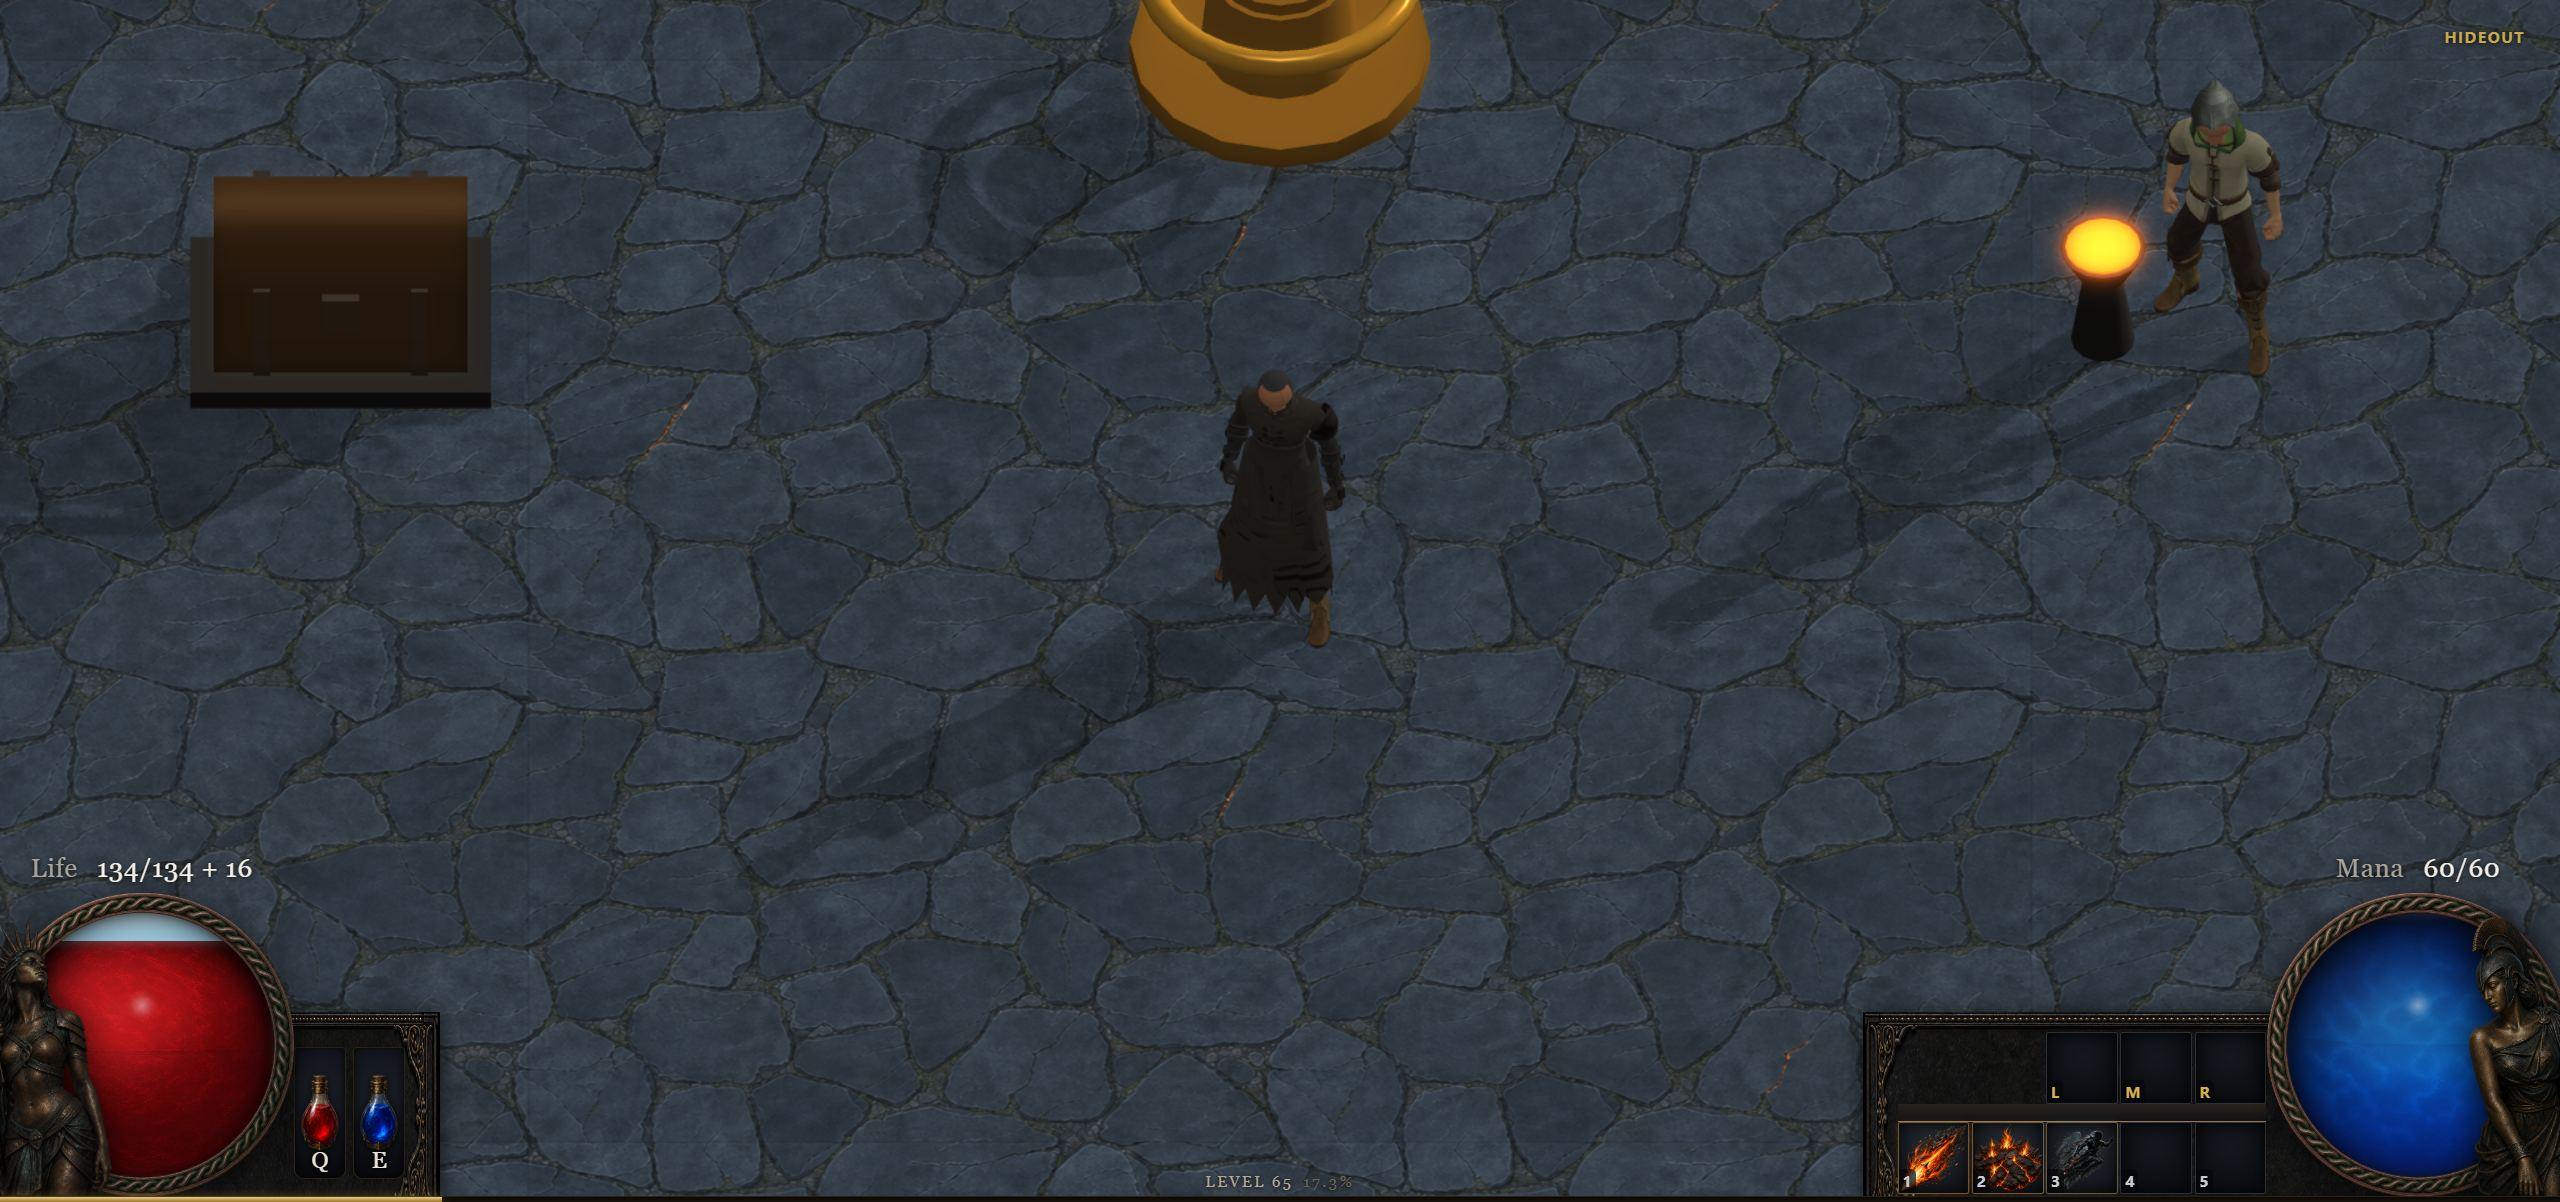
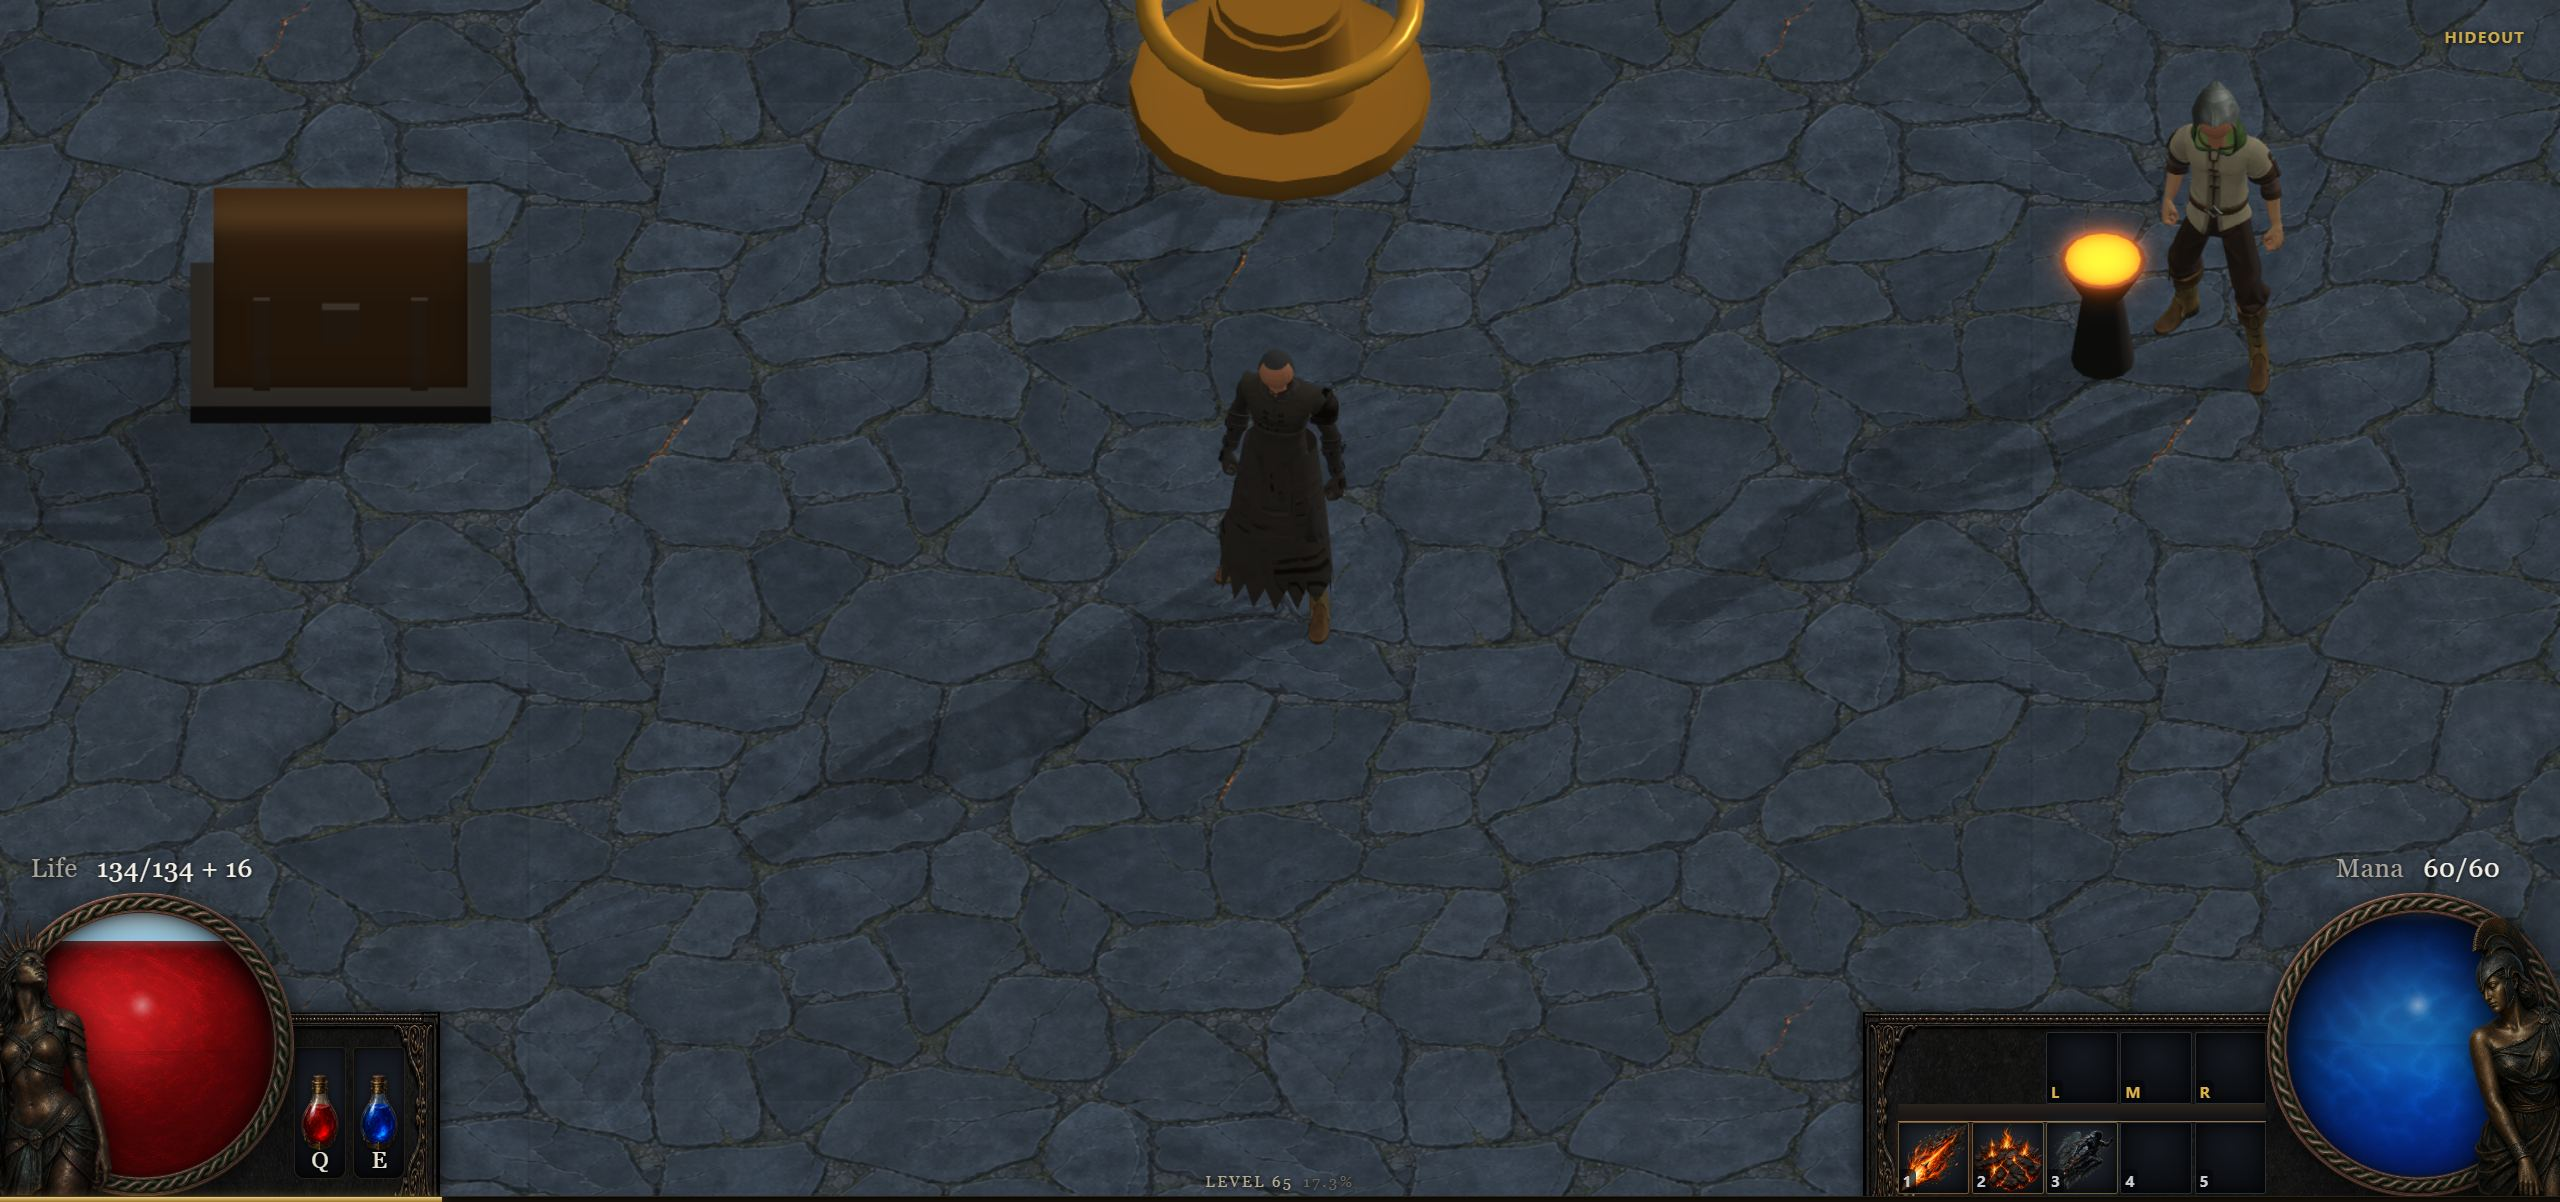
feat(camera): the zoom arc was an eighth of what it could be
BETA_PER_UNIT 0.03 to 0.08. The tilt is bounded by where it starts cancelling
the box: visible depth stops falling once it reaches 1/(half*tan(beta)), about
0.24 at the wide end. The first pass sat an eighth of the way there and the
arc barely read.

A full zoom in now tilts ~7 degrees and still cuts visible depth ~24%. The
test pins the ratio rather than the constant, so this stays free to tune by
eye.

diff --git a/apps/web/src/render/engine.ts b/apps/web/src/render/engine.ts
@@ -71,15 +71,21 @@ const MAX_HALF_HEIGHT = ORTHO_HALF_HEIGHT;
  *
  * The direction is a trap worth stating: shallower shows *more* ground
  * front-to-back at a fixed box height (the floor is stretched by 1/cos(beta)),
- * which is the "now I can see further up the map" that this must not do. It
- * does not, because the box shrinks about seven times faster than the stretch
- * grows — a full zoom in cuts the visible depth by ~30% even while tilting. The
- * ratio is the load-bearing part and `render.test.ts` pins it rather than the
- * two numbers, so retuning the pitch cannot quietly reintroduce it.
+ * which is the "now I can see further up the map" that this must not do. The
+ * box shrinking is what pays for it, and the two cancel at a computable place:
+ * the visible depth stops falling once `|BETA_PER_UNIT| >= 1 / (half·tan(beta))`,
+ * which at the wide end is about 0.24. That is the real ceiling on this number
+ * and it is roughly 3x the value set here — the first pass ran at 0.03, an
+ * eighth of it, and the arc was too timid to see. A full zoom in now tilts
+ * ~7 degrees and still cuts the visible depth ~24%.
+ *
+ * `render.test.ts` pins the *ratio* rather than either number, so this can be
+ * pushed further by eye without anyone having to remember the algebra above —
+ * the test fails the moment the tilt starts outrunning the box.
  */
 const BETA_AT_DEFAULT = 0.72;
-const BETA_PER_UNIT = -0.03;
-const BETA_LIMIT = { min: BETA_AT_DEFAULT, max: 0.8 };
+const BETA_PER_UNIT = -0.08;
+const BETA_LIMIT = { min: BETA_AT_DEFAULT, max: 0.88 };
 
 /** Seconds-ish smoothing on the zoom, so a notch glides instead of snapping. */
 const ZOOM_EASE = 0.18;

diff --git a/devlog/README.md b/devlog/README.md
@@ -219,6 +219,6 @@ The hideout gets storage, quick transfer, and a bench that turns leftovers into 
 <td width="33%"><img src="screenshots/2026-07-27-coat-damping.jpeg" alt="The character standing in the hideout, the coat hanging with its authored flare and a clean hem" width="100%"><br><sub><b>The coat stops ringing</b> - the fix above bought its swing honestly and shipped a new complaint with it: "flutters around too quick, like it's made of rubber". The harness could not see it, which is the actual lesson. It scored penetration depth and total hem travel, and a coat that shakes at 30Hz scores exactly like one that swings smoothly - both are "the hem is far from its bind pose a lot". Two metrics that <em>do</em> separate: mean per-frame hem movement, and hem direction <b>reversals</b> per chain-frame. The second is what rubber is. It read 0.006 on the shipped coat against 0.003 for the old stiff one - the ringing was there in the trace the whole time, twice over, unmeasured. Then the sweep said the obvious suspect was innocent. <code>CONTACT_ABSORB</code> had been halved to 0.25 in the same commit and is the knob that decides how much of a shove lands in the Verlet velocity, so it was the theory; swept from 0.3 to 0.6 it moves the reversal rate by nothing at all. The frequency knob is <code>DAMPING</code>, which had never been touched and was still tuned against a spring six times stiffer than the one it now damps. At 0.9 -> 0.75 the reversals halve back to 0.003, per-frame jitter falls 0.047 -> 0.033, and frames showing more than 2cm of leg <em>improve</em> 4.7% -> 2.0%, because a heavier hem that gets shoved aside stays aside. Not lower than 0.75, and this is the trap in the old metric stated plainly: mean offset from the bind pose keeps climbing all the way down (0.33 at 0.9, 0.38 at 0.75, 0.53 at 0.6) and past the knee that number is <b>lag, not swing</b> - the coat trailing the body rather than hanging on it. Read as "more is better" it would have argued for a cape dragging half a metre behind.</sub></td>
 </tr>
 <tr>
-<td width="33%"><img src="screenshots/2026-07-27-wheel-zoom.jpeg" alt="The hideout scrolled in close: the character large in frame, the map device cropped by the top edge, less floor visible all round" width="100%"><br><sub><b>The wheel zooms</b> - and the interesting part is that our camera is orthographic while PoE's is perspective, so the obvious implementation is wrong. In PoE, zooming in <em>dollies</em> the camera at the character; perspective is what makes that read as a curve, and it is also what stops you seeing further up the map, because the frustum's far footprint shrinks as you approach. Ortho has neither. <code>radius</code> is visually inert, zoom is only the ortho box, and scaling a box is a flat magnification with no arc in it at all - nothing changes shape with distance when there is no distance. So the arc has to come from the one thing that still bends an ortho view, the pitch, and the reference says which way: in <code>closeup-hideout-zoom.jpg</code> the huntress is a near-upright portrait, while the NPCs in the wider <code>hideout.jpg</code> are seen from further above. Close in is <b>shallower</b>. That is the trap, though, and it is worth stating in the direction that hurts: shallower shows <em>more</em> ground front-to-back at a fixed box height, since the floor is stretched by 1/cos(beta) - exactly the "now I can see further up the map" this was asked not to do. It gets away with it on a ratio. Over the full range the box shrinks about seven times faster than the stretch grows, so a full zoom in still cuts the visible depth ~30% while tilting. The ratio is the load-bearing fact rather than either number, so the test pins <em>that</em> - every notch inward must reduce <code>2·halfHeight/cos(beta)</code> - and re-tuning the pitch by eye can no longer quietly reintroduce the thing the feature was supposed to avoid. Two details that are only obvious once wrong: the shadow frustum is sized to the visible floor rather than to the world, so it has to track the zoom rather than sit at a fixed extent; and the wheel listener belongs on the canvas, not the window, or it eats the inventory's own scrolling. The range runs 3.2 to 4.75 half-height, and the ceiling is the point - <b>the wheel only zooms in</b>. The authored 4.75 is both where it rests and as far out as it goes, so the widest shot the player can ever see is the one that was actually composed: the ortho height is calibrated against a screenshot, the shadow frustum is derived from it, and letting the wheel past it would ship a second widest framing that nothing was checked at. A first pass had it opening out to 6.8 as well, which was scope nobody asked for. That also means the old note in <code>engine.ts</code> stands rather than retires - the Warden's slam telegraph covering 74% of the field is still a fixed-framing problem, because zooming out is exactly what the player cannot do.</sub></td>
+<td width="33%"><img src="screenshots/2026-07-27-wheel-zoom.jpeg" alt="The hideout scrolled in close: the character large in frame, the map device cropped by the top edge, less floor visible all round" width="100%"><br><sub><b>The wheel zooms</b> - and the interesting part is that our camera is orthographic while PoE's is perspective, so the obvious implementation is wrong. In PoE, zooming in <em>dollies</em> the camera at the character; perspective is what makes that read as a curve, and it is also what stops you seeing further up the map, because the frustum's far footprint shrinks as you approach. Ortho has neither. <code>radius</code> is visually inert, zoom is only the ortho box, and scaling a box is a flat magnification with no arc in it at all - nothing changes shape with distance when there is no distance. So the arc has to come from the one thing that still bends an ortho view, the pitch, and the reference says which way: in <code>closeup-hideout-zoom.jpg</code> the huntress is a near-upright portrait, while the NPCs in the wider <code>hideout.jpg</code> are seen from further above. Close in is <b>shallower</b>. That is the trap, though, and it is worth stating in the direction that hurts: shallower shows <em>more</em> ground front-to-back at a fixed box height, since the floor is stretched by 1/cos(beta) - exactly the "now I can see further up the map" this was asked not to do. It gets away with it on a ratio, and the ratio has a computable ceiling: the visible depth stops falling once the per-unit tilt reaches <code>1/(half·tan(beta))</code>, about 0.24 at the wide end. Worth working out rather than guessing at, because the first pass was set to 0.03 - an eighth of the ceiling - and the arc was so timid it barely read as an arc at all. At 0.08 a full zoom in tilts ~7 degrees and still cuts the visible depth ~24%. The ratio is the load-bearing fact rather than either number, so the test pins <em>that</em> - every notch inward must reduce <code>2·halfHeight/cos(beta)</code> - which means the pitch can be pushed by eye without anyone re-deriving the algebra, and the test fails the moment the tilt starts outrunning the box. Two details that are only obvious once wrong: the shadow frustum is sized to the visible floor rather than to the world, so it has to track the zoom rather than sit at a fixed extent; and the wheel listener belongs on the canvas, not the window, or it eats the inventory's own scrolling. The range runs 3.2 to 4.75 half-height, and the ceiling is the point - <b>the wheel only zooms in</b>. The authored 4.75 is both where it rests and as far out as it goes, so the widest shot the player can ever see is the one that was actually composed: the ortho height is calibrated against a screenshot, the shadow frustum is derived from it, and letting the wheel past it would ship a second widest framing that nothing was checked at. A first pass had it opening out to 6.8 as well, which was scope nobody asked for. That also means the old note in <code>engine.ts</code> stands rather than retires - the Warden's slam telegraph covering 74% of the field is still a fixed-framing problem, because zooming out is exactly what the player cannot do.</sub></td>
 </tr>
 </table>
